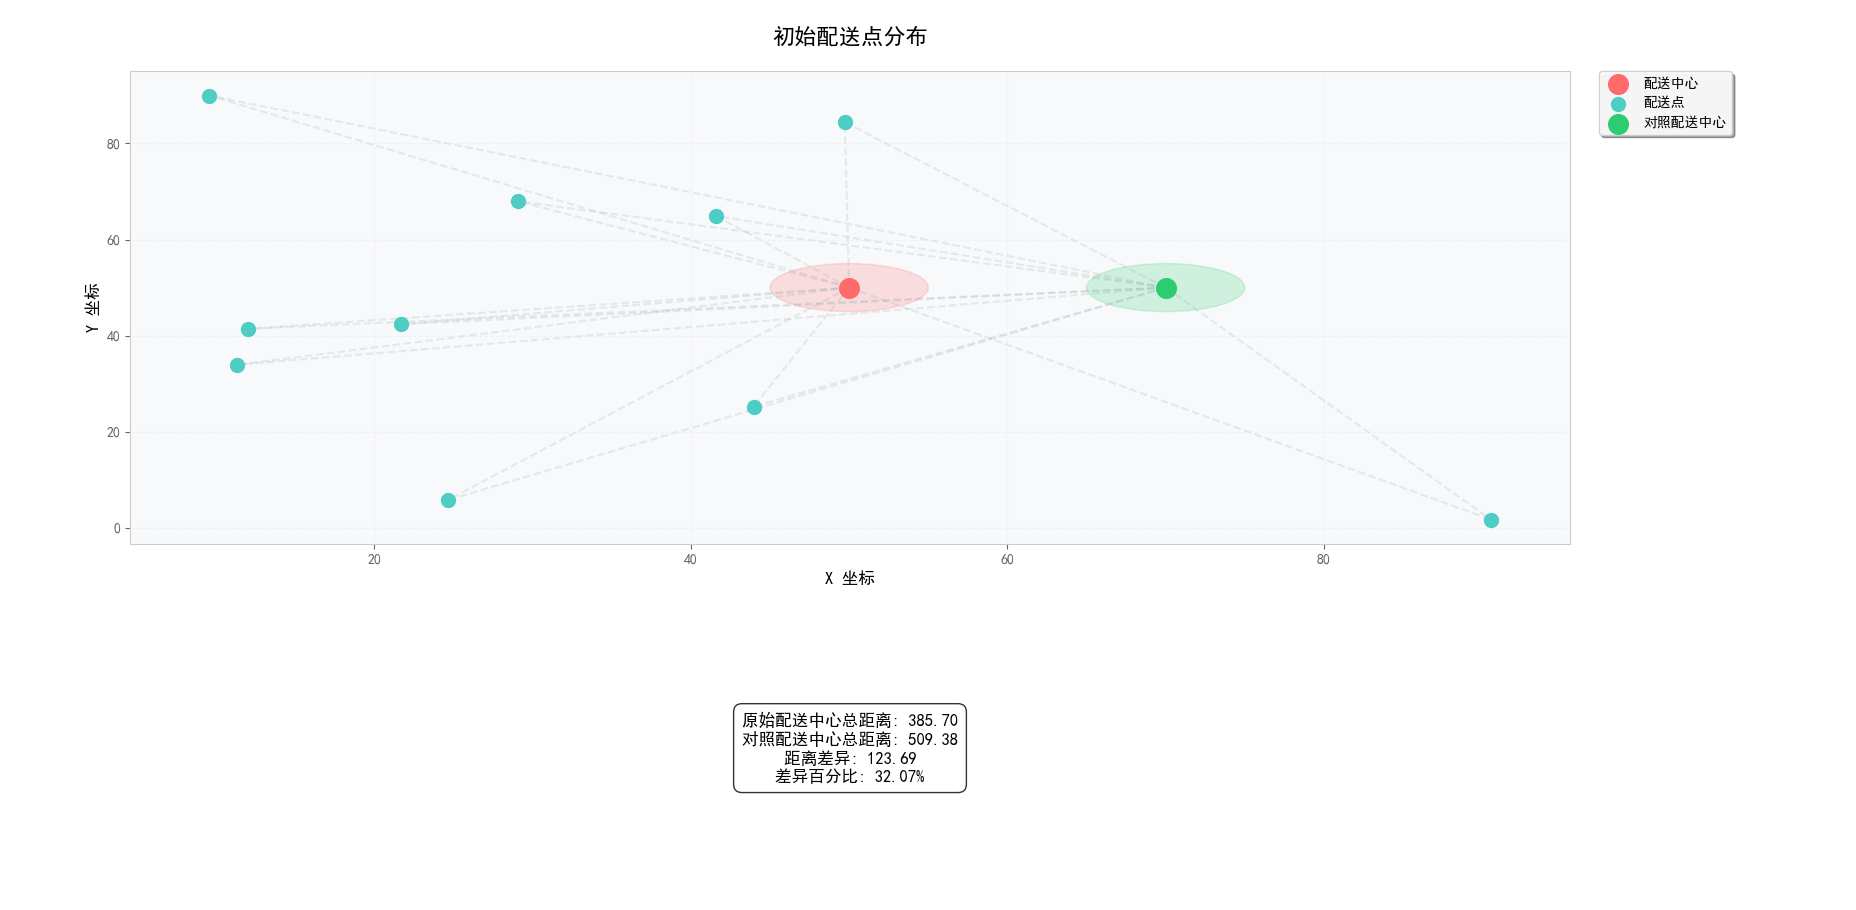
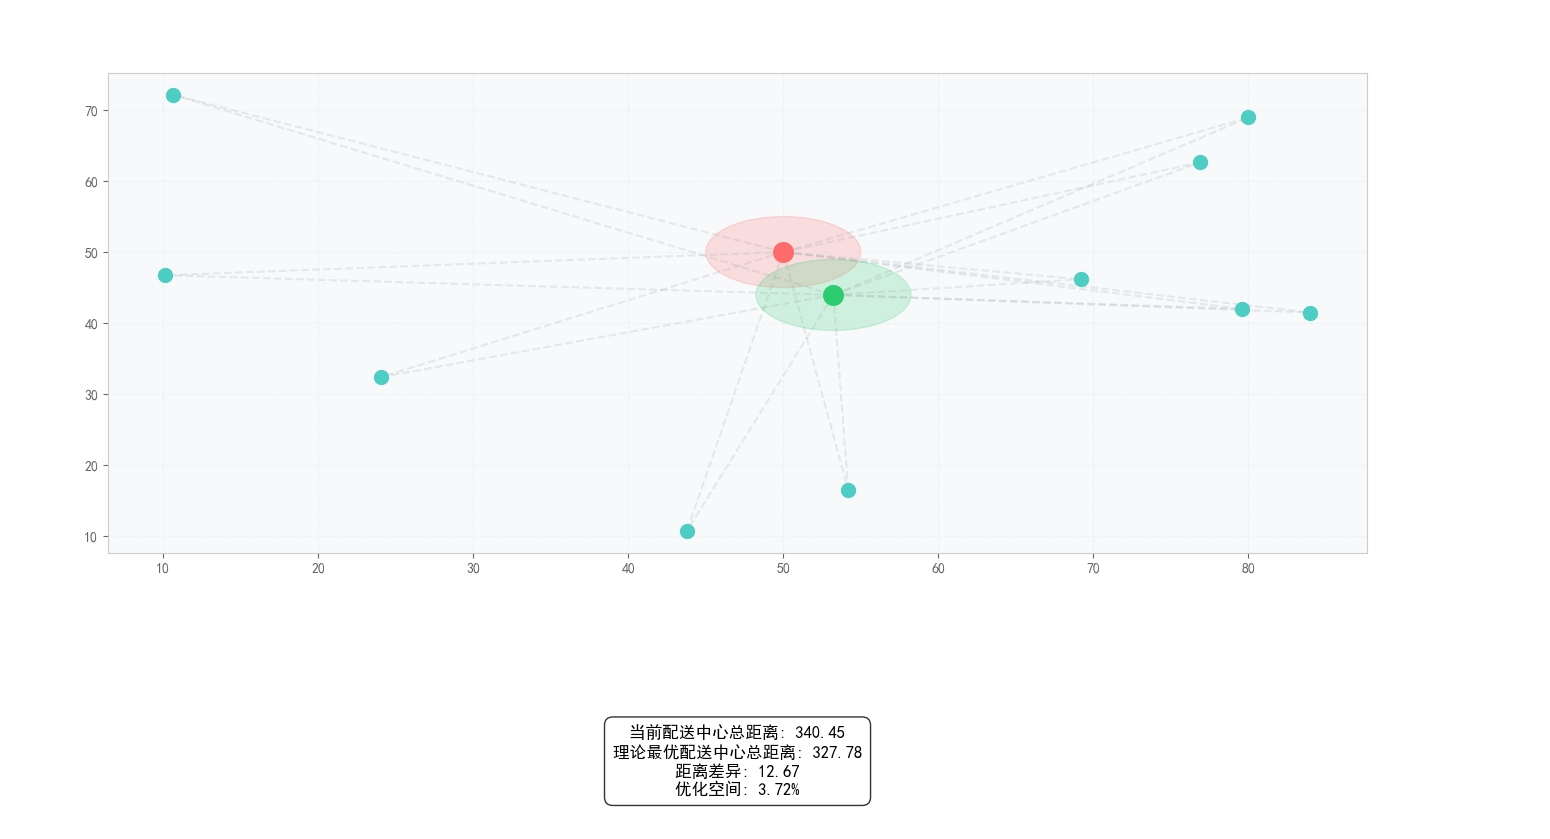
change

diff --git a/main.py b/main.py
@@ -46,6 +46,18 @@ def generate_time_windows(num_points: int, time_range: tuple = (0, 100)):
     return [(np.random.uniform(time_range[0], time_range[1]),
              np.random.uniform(time_range[0], time_range[1]) + 2) for _ in range(num_points)]
 
+def find_optimal_depot(delivery_points: List[Tuple[float, float]]) -> Tuple[float, float]:
+    """计算最优配送中心位置（使用重心法）"""
+    x_coords = [p[0] for p in delivery_points]
+    y_coords = [p[1] for p in delivery_points]
+    return (np.mean(x_coords), np.mean(y_coords))
+
+def calculate_total_distance(depot: Tuple[float, float], 
+                           delivery_points: List[Tuple[float, float]]) -> float:
+    """计算给定配送中心位置的总距离"""
+    return sum(np.sqrt((p[0] - depot[0])**2 + (p[1] - depot[1])**2) 
+              for p in delivery_points)
+
 def plot_routes(depot: Tuple[float, float], 
                 delivery_points: List[Tuple[float, float]], 
                 routes: List[List[int]], 
@@ -55,7 +67,7 @@ def plot_routes(depot: Tuple[float, float],
                 service_times: List[float] = None):
     """绘制路线图"""
     # 根据数据范围自动调整图形大小
-    x_coords = [p[0] for p in delivery_points] + [depot[0], depot[0] + 20]
+    x_coords = [p[0] for p in delivery_points] + [depot[0]]
     y_coords = [p[1] for p in delivery_points] + [depot[1]]
     x_range = max(x_coords) - min(x_coords)
     y_range = max(y_coords) - min(y_coords)
@@ -94,7 +106,7 @@ def plot_routes(depot: Tuple[float, float],
     ax1.scatter(depot[0], depot[1], c='#FF6B6B', s=200, label='配送中心', zorder=5)
     
     # 绘制配送点
-    ax1.scatter(x_coords[:-2], y_coords[:-1], c='#4ECDC4', s=100, label='配送点', zorder=4)
+    ax1.scatter(x_coords[:-1], y_coords[:-1], c='#4ECDC4', s=100, label='配送点', zorder=4)
     
     # 计算并绘制所有点到配送中心的连线
     total_distance = 0
@@ -131,47 +143,29 @@ def plot_routes(depot: Tuple[float, float],
                             bbox=dict(boxstyle='round,pad=0.5', fc='white', alpha=0.7),
                             fontsize=8)
     
-    # 创建对照点（在配送中心右侧20单位处）
-    comparison_depot = (depot[0] + 20, depot[1])
-    comparison_circle = Circle(comparison_depot, 5, color='#2ECC71', alpha=0.2)
-    ax1.add_patch(comparison_circle)
-    ax1.scatter(comparison_depot[0], comparison_depot[1], c='#2ECC71', s=200, label='对照配送中心', zorder=5)
+    # 计算最优配送中心位置
+    optimal_depot = find_optimal_depot(delivery_points)
+    optimal_distance = calculate_total_distance(optimal_depot, delivery_points)
+    current_distance = calculate_total_distance(depot, delivery_points)
     
-    # 计算并绘制所有点到对照配送中心的连线
-    comparison_total_distance = 0
+    # 绘制最优配送中心位置
+    optimal_circle = Circle(optimal_depot, 5, color='#2ECC71', alpha=0.2)
+    ax1.add_patch(optimal_circle)
+    ax1.scatter(optimal_depot[0], optimal_depot[1], c='#2ECC71', s=200, 
+                label='理论最优配送中心', zorder=5)
+    
+    # 计算并绘制所有点到最优配送中心的连线
     for i, point in enumerate(delivery_points):
-        distance = np.sqrt((point[0] - comparison_depot[0])**2 + 
-                         (point[1] - comparison_depot[1])**2)
-        comparison_total_distance += distance
-        ax1.plot([comparison_depot[0], point[0]], [comparison_depot[1], point[1]], 
+        ax1.plot([optimal_depot[0], point[0]], [optimal_depot[1], point[1]], 
                  c='#95A5A6', alpha=0.2, linestyle='--', zorder=1)
-    
-    # 设置主图属性
-    ax1.set_title(title, fontsize=16, pad=20, fontweight='bold')
-    ax1.set_xlabel('X 坐标', fontsize=12)
-    ax1.set_ylabel('Y 坐标', fontsize=12)
-    
-    # 调整图例位置和样式
-    legend = ax1.legend(bbox_to_anchor=(1.02, 1), loc='upper left', 
-                       borderaxespad=0., frameon=True, fancybox=True, shadow=True,
-                       fontsize=10)
-    legend.get_frame().set_facecolor('white')
-    legend.get_frame().set_alpha(0.9)
-    
-    ax1.grid(True, alpha=0.3)
-    
-    # 设置坐标轴范围，留出一定边距
-    margin = 5
-    ax1.set_xlim(min(x_coords) - margin, max(x_coords) + margin)
-    ax1.set_ylim(min(y_coords) - margin, max(y_coords) + margin)
     
     # 在中间子图中添加距离统计信息
     ax2.axis('off')
     stats_text = (
-        f"原始配送中心总距离: {total_distance:.2f}\n"
-        f"对照配送中心总距离: {comparison_total_distance:.2f}\n"
-        f"距离差异: {abs(total_distance - comparison_total_distance):.2f}\n"
-        f"差异百分比: {abs(total_distance - comparison_total_distance)/total_distance*100:.2f}%"
+        f"当前配送中心总距离: {current_distance:.2f}\n"
+        f"理论最优配送中心总距离: {optimal_distance:.2f}\n"
+        f"距离差异: {abs(current_distance - optimal_distance):.2f}\n"
+        f"优化空间: {(current_distance - optimal_distance)/current_distance*100:.2f}%"
     )
     ax2.text(0.5, 0.5, stats_text, ha='center', va='center', fontsize=12,
              bbox=dict(boxstyle='round,pad=0.5', fc='white', alpha=0.8))
@@ -329,7 +323,7 @@ def plot_route_analysis(initial_stats: dict, final_stats: dict):
     plt.show()
 
 def generate_summary(initial_stats: dict, dyt_stats: dict, final_stats: dict,
-                    total_distance: float, comparison_distance: float):
+                    current_distance: float, optimal_distance: float):
     """生成总结报告"""
     print("\n" + "=" * 80)
     print("配送路径规划总结报告")
@@ -339,13 +333,14 @@ def generate_summary(initial_stats: dict, dyt_stats: dict, final_stats: dict,
     improvement = (initial_stats['total_distance'] - final_stats['total_distance']) / initial_stats['total_distance'] * 100
     route_balance = np.std(final_stats['route_lengths']) / np.mean(final_stats['route_lengths'])
     delivery_balance = np.std(final_stats['num_deliveries']) / np.mean(final_stats['num_deliveries'])
+    depot_optimization_space = (current_distance - optimal_distance) / current_distance * 100
     
     print("\n1. 配送中心位置分析")
     print("-" * 50)
-    print(f"原始配送中心总距离: {total_distance:.2f}")
-    print(f"对照配送中心总距离: {comparison_distance:.2f}")
-    print(f"距离差异: {abs(total_distance - comparison_distance):.2f}")
-    print(f"差异百分比: {abs(total_distance - comparison_distance)/total_distance*100:.2f}%")
+    print(f"当前配送中心总距离: {current_distance:.2f}")
+    print(f"理论最优配送中心总距离: {optimal_distance:.2f}")
+    print(f"距离差异: {abs(current_distance - optimal_distance):.2f}")
+    print(f"优化空间: {depot_optimization_space:.2f}%")
     
     print("\n2. 路线优化效果")
     print("-" * 50)
@@ -378,10 +373,10 @@ def generate_summary(initial_stats: dict, dyt_stats: dict, final_stats: dict,
     
     print("\n6. 建议")
     print("-" * 50)
-    if total_distance < comparison_distance:
-        print("✓ 当前配送中心位置优于对照点，建议保持现有位置")
+    if depot_optimization_space > 5:
+        print(f"⚠ 当前配送中心位置存在较大优化空间（{depot_optimization_space:.2f}%），建议考虑更换位置")
     else:
-        print("⚠ 对照配送中心位置可能更优，建议考虑更换位置")
+        print("✓ 当前配送中心位置接近理论最优，可以保持现有位置")
     
     if improvement > 0:
         print(f"✓ 路线优化效果显著，节省了{improvement:.2f}%的总距离")
@@ -550,11 +545,10 @@ def main():
             print(f"DyT计算时间: {dyt_time:.2f} 秒")
             print(f"最终VRP计算时间: {vrp_time:.2f} 秒")
             
-            # 在绘制路线时计算总距离
-            total_distance = sum(np.sqrt((p[0] - depot[0])**2 + (p[1] - depot[1])**2) 
-                               for p in delivery_points)
-            comparison_distance = sum(np.sqrt((p[0] - (depot[0] + 20))**2 + (p[1] - depot[1])**2) 
-                                    for p in delivery_points)
+            # 计算最优配送中心位置和距离
+            optimal_depot = find_optimal_depot(delivery_points)
+            optimal_distance = calculate_total_distance(optimal_depot, delivery_points)
+            current_distance = calculate_total_distance(depot, delivery_points)
             
             # 添加计算时间到统计信息
             initial_stats['computation_time'] = vrp_time
@@ -569,7 +563,7 @@ def main():
             
             # 在程序结束前添加总结报告
             generate_summary(initial_stats, dyt_stats, final_stats, 
-                            total_distance, comparison_distance)
+                            current_distance, optimal_distance)
             
     except Exception as e:
         print(f"\n发生错误: {str(e)}")
